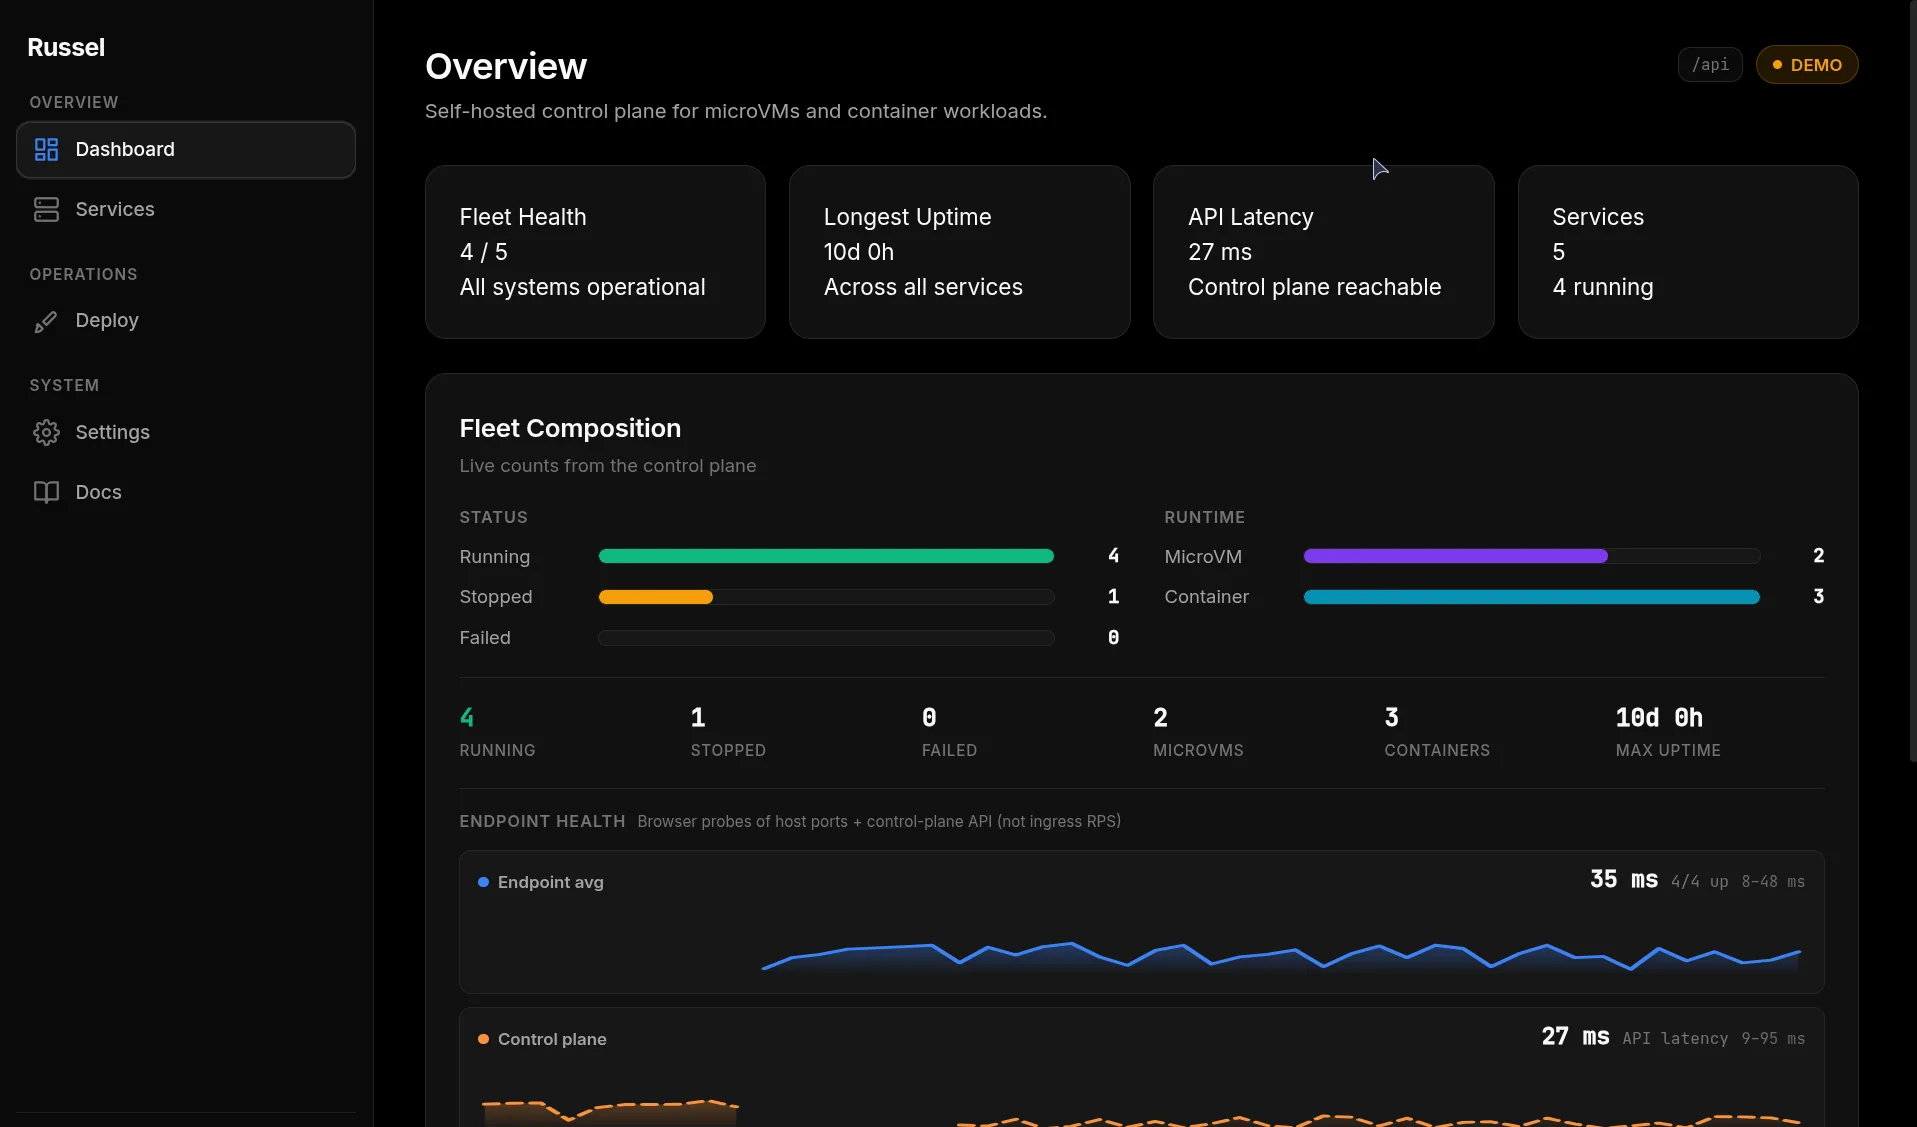
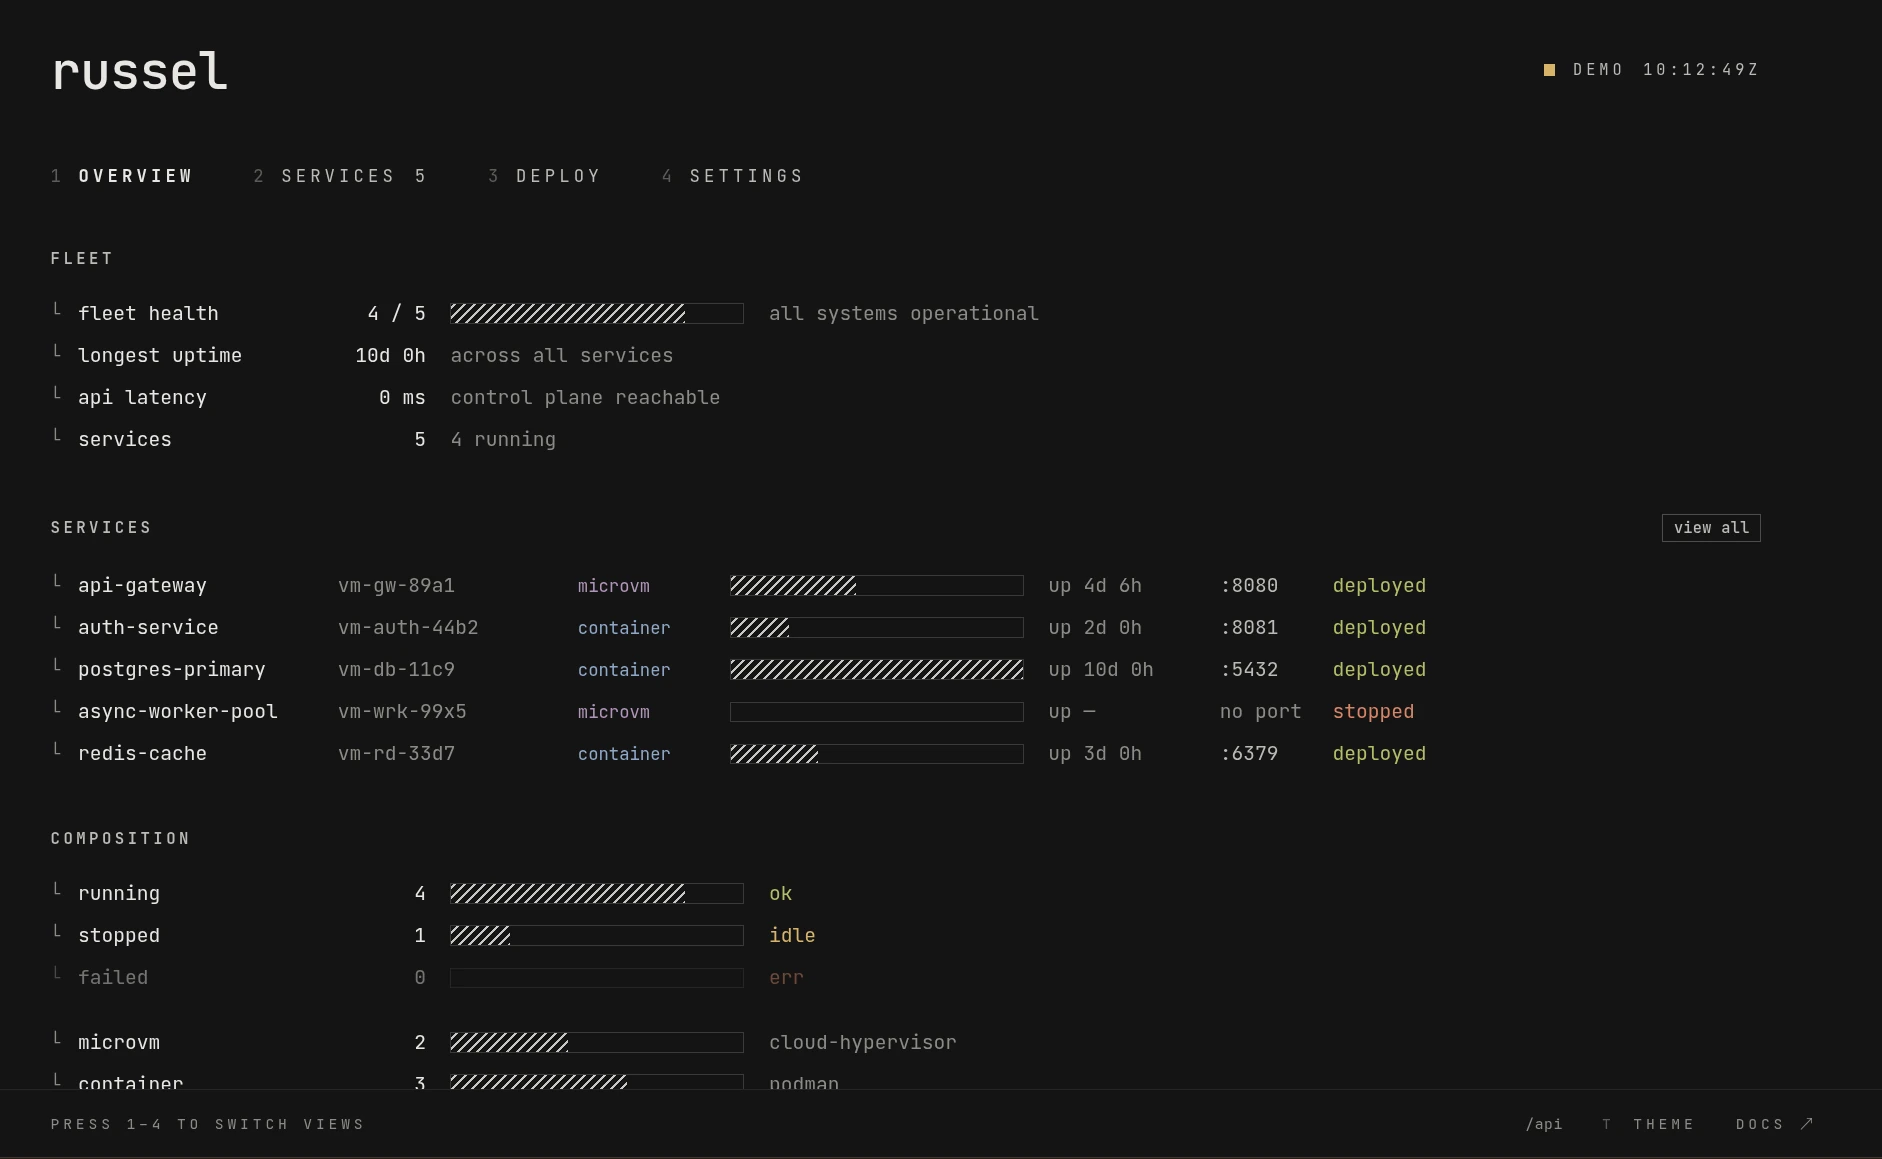
Update hero dashboard screenshot to new UI

diff --git a/src/components/Hero.tsx b/src/components/Hero.tsx
@@ -133,8 +133,8 @@ export const Hero: React.FC<HeroProps> = ({ onNavigate }) => {
         <img
           src="/dash.webp"
           alt="Russel dashboard"
-          width={1917}
-          height={1127}
+          width={1882}
+          height={1159}
           className="w-full h-auto rounded-2xl shadow-[0_20px_80px_rgba(0,0,0,0.35)] ring-1 ring-black/10"
           loading="eager"
           fetchPriority="high"
